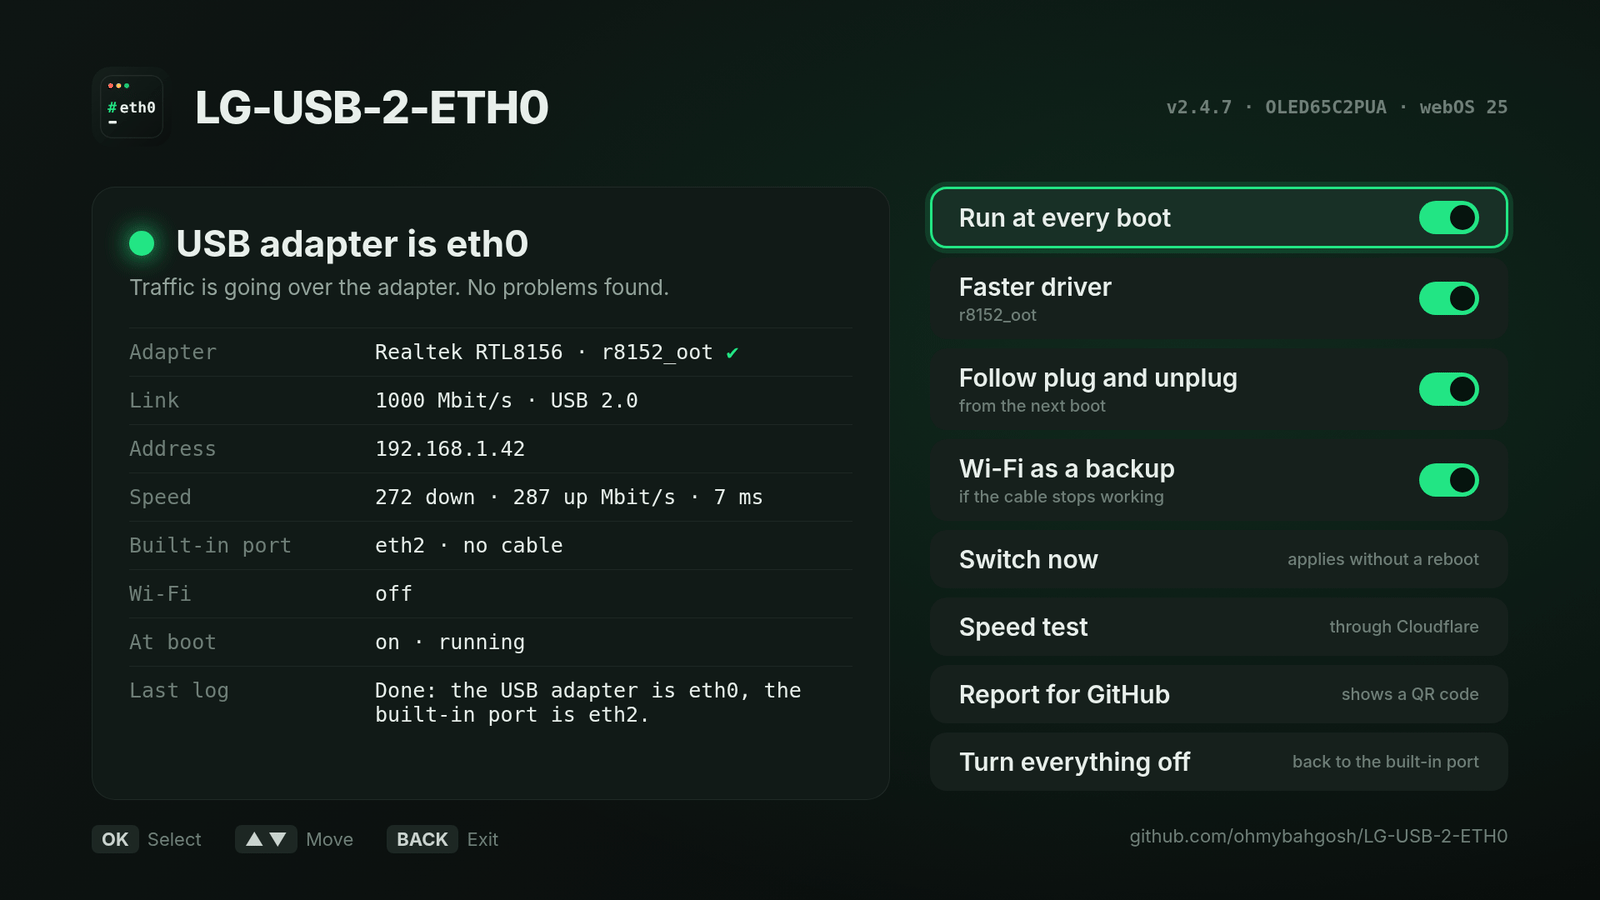
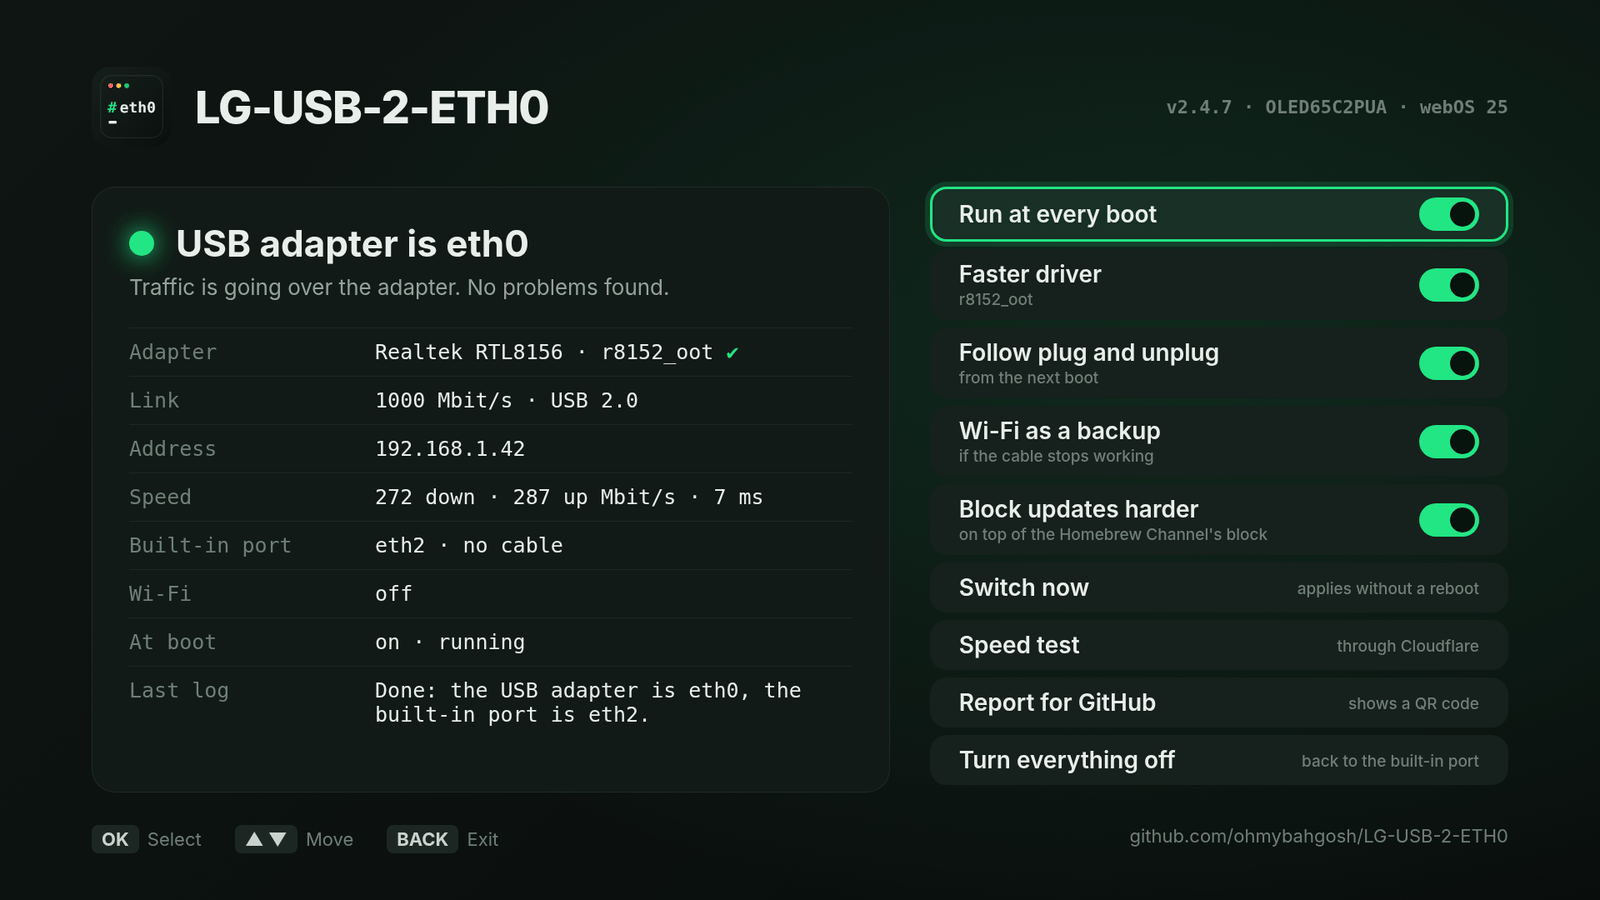
Block updates harder: --block-updates and an app toggle
On top of the Homebrew Channel's Block system updates, never instead of
it: turn off webOS's own update check (support/softwareUpdateEnable,
remembering its old value), add the update servers that block misses
(nsu.lge.com, snu-dev.lge.com, ngfts.lge.com) to /etc/hosts in tagged
lines, drop traffic to 156.147.69.32 with one iptables rule, and delete
cached update details.  At install and at every boot.  Turning it off,
or uninstall, undoes each part and leaves the Homebrew Channel's block
alone.  From the findings in Homebrew Channel issue #96 and PR #264,
and tested on a C2.

status notes when firmware updates aren't blocked at all, and the app
packs ten rows a little tighter.

Changed region(s): [[0.5625, 0.2178, 0.9688, 0.8089], [0.5938, 0.84, 0.75, 0.8711], [0.8125, 0.84, 0.9375, 0.8711]]

diff --git a/webos-app/src/app.js b/webos-app/src/app.js
@@ -224,6 +224,9 @@
         $('tog-boot').className = 'tog' + (bootOn ? ' on' : '');
         $('tog-watch').className = 'tog' + (bootOn && h.watch ? ' on' : '');
         $('tog-wifi').className = 'tog' + (bootOn && h.wifiFallback ? ' on' : '');
+        $('tog-updates').className = 'tog' + (bootOn && h.blockUpdates ? ' on' : '');
+        var u = s.updates || {};
+        $('updates-hint').textContent = u.hbcBlock === false ? 'also turn on Block system updates in the Homebrew Channel' : 'on top of the Homebrew Channel\'s block';
         // The faster-driver row only appears when it fits this TV: a driver is
         // known for this exact kernel and the adapter is one it supports, or a
         // driver is already set up (so it can be turned off again).
@@ -254,7 +257,7 @@
         btn.style.display = show ? '' : 'none';
         // Squeeze the rows a little when there are more of them, so they fit
         var n = buttons().length;
-        $('actions').className = 'actions' + (n >= 9 ? ' tighter' : (n >= 8 ? ' tight' : ''));
+        $('actions').className = 'actions' + (n >= 10 ? ' tightest' : (n >= 9 ? ' tighter' : (n >= 8 ? ' tight' : '')));
         if (!show) { return; }
         $('update-title').textContent = 'Update to v' + upd.latest;
         $('update-hint').textContent = upd.source === 'homebrew' ? 'opens the Homebrew Channel' : 'you have v' + upd.current + ', downloads and installs';
@@ -423,6 +426,20 @@
                     'If eth0 loses its cable link for a minute while Wi-Fi is off, the TV turns Wi-Fi on and joins a network it already knows.  ' +
                     'Once the cable works again, Wi-Fi goes back off, so traffic returns to the adapter.  Starts from the next boot.',
                     function () { act('Wi-Fi backup', installArgs('--wifi-fallback')); });
+            }
+        },
+        updates: function () {
+            if (!state) { return; }
+            if (state.hook.state === 'enabled' && state.hook.blockUpdates) {
+                confirmThen('Stop blocking updates harder?',
+                    'webOS\'s own update check goes back to how it was, and the extra servers and the firewall rule come off.  The Homebrew Channel\'s Block system updates stays as it is.',
+                    function () { act('Update blocking off', installArgs('--no-block-updates')); });
+            } else {
+                confirmThen('Block updates harder?',
+                    'A firmware update can remove root for good, and LG\'s current firmware, webOS 26 included, can\'t be rooted again.  ' +
+                    'This adds to the Homebrew Channel\'s Block system updates: it turns off webOS\'s own update check, blocks the update servers that block misses, and the one the updater reaches by IP.  ' +
+                    'It starts now and at every boot, and turning it off undoes all of it.',
+                    function () { act('Block updates', installArgs('--block-updates')); });
             }
         },
         apply: function () {

diff --git a/webos-app/src/index.html b/webos-app/src/index.html
@@ -28,6 +28,7 @@
       <div class="btn" tabindex="0" data-action="driver"><span>Faster driver<small id="driver-hint"></small></span> <span class="tog" id="tog-driver"></span></div>
       <div class="btn" tabindex="0" data-action="watch"><span>Follow plug and unplug<small>from the next boot</small></span> <span class="tog" id="tog-watch"></span></div>
       <div class="btn" tabindex="0" data-action="wifi"><span>Wi-Fi as a backup<small>if the cable stops working</small></span> <span class="tog" id="tog-wifi"></span></div>
+      <div class="btn" tabindex="0" data-action="updates"><span>Block updates harder<small id="updates-hint">on top of the Homebrew Channel's block</small></span> <span class="tog" id="tog-updates"></span></div>
       <div class="btn" tabindex="0" data-action="apply">Switch now <small>applies without a reboot</small></div>
       <div class="btn" tabindex="0" data-action="speed">Speed test <small>through Cloudflare</small></div>
       <div class="btn" tabindex="0" data-action="report">Report for GitHub <small>shows a QR code</small></div>

diff --git a/scripts/screenshots/demo.js b/scripts/screenshots/demo.js
@@ -13,7 +13,8 @@
   var withSpeed = p.get('speed') !== '0';
   var status = {
     version: ver, model: 'OLED65C2PUA', webos: 'webOS 25', webosRelease: '10.3.1', firmware: '33.30.65', kernel: '5.4.268-329.ptl4tv.5',
-    hook: { state: 'enabled', link: '', wait: '120', mac: '', module: '/home/root/lg-usb-2-eth0/r8152_oot.ko', driver: 'r8152_oot', watch: true, wifiFallback: true, wifiFallbackOn: false, running: true, pid: '1234' },
+    hook: { state: 'enabled', link: '', wait: '120', mac: '', module: '/home/root/lg-usb-2-eth0/r8152_oot.ko', driver: 'r8152_oot', watch: true, wifiFallback: true, wifiFallbackOn: false, blockUpdates: true, running: true, pid: '1234' },
+    updates: { check: 'false', hbcBlock: true, missingHosts: '', firewall: true },
     adapter: { name: 'eth0', driver: 'r8152_oot', mac: '', carrier: true, speed: 1000, duplex: 'full', ip: '192.168.1.42/24', id: '0bda:8156', chip: 'Realtek RTL8156', bus: 'USB 2.0' },
     adapterIsEth0: true,
     builtin: { name: 'eth2', driver: 'lg1k_eth', mac: '', carrier: false, speed: 0, ip: '' },

diff --git a/webos-app/src/style.css b/webos-app/src/style.css
@@ -100,3 +100,5 @@ footer .right { margin: 0 0 0 auto; }
 .actions.tight .btn { padding-top: 14px; padding-bottom: 14px; margin-bottom: 11px; }
 .actions.tighter .btn { padding-top: 10px; padding-bottom: 10px; margin-bottom: 9px; font-size: 28px; }
 .actions.tighter .btn small { font-size: 19px; margin-top: 2px; }
+.actions.tightest .btn { padding-top: 6px; padding-bottom: 6px; margin-bottom: 7px; font-size: 26px; }
+.actions.tightest .btn small { font-size: 17px; margin-top: 0; }

diff --git a/README.md b/README.md
@@ -21,7 +21,7 @@ This script renames the adapter to `eth0` and parks the built-in port under anot
 
 > [!TIP]
 > **Is it safe, and how do I undo it?**
-> It adds one boot hook, a link at `/var/lib/webosbrew/init.d/S01fix-eth`, keeps its settings in `/var/lib/webosbrew/lg-usb-2-eth0.conf`, and only renames network interfaces.  No system files are touched, and network settings only if you turn on the Wi-Fi backup, so a reboot without the hook always starts clean.  With no adapter plugged in, the hook changes nothing.
+> It adds one boot hook, a link at `/var/lib/webosbrew/init.d/S01fix-eth`, keeps its settings in `/var/lib/webosbrew/lg-usb-2-eth0.conf`, and only renames network interfaces.  No system files are touched, and network settings only if you turn on the Wi-Fi backup or Block updates harder, so a reboot without the hook always starts clean.  With no adapter plugged in, the hook changes nothing.
 > Undo everything with **Turn everything off** in the TV app, or `sh LG-USB-2-ETH0.sh uninstall --now`.
 
 > [!WARNING]
@@ -29,6 +29,7 @@ This script renames the adapter to `eth0` and parks the built-in port under anot
 >
 > - Turn off **Automatic software updates** in the TV's settings (on recent models it's under Support, Software Update).
 > - In the Homebrew Channel, open Settings and turn on **Block system updates**.
+> - For more, turn on **Block updates harder** in the LG-USB-2-ETH0 app (or install with `--block-updates`).  It adds to the Homebrew Channel's block without touching it: see [Blocking updates](#blocking-updates).
 > - Some TVs still show the update prompt anyway.  Blocking LG's update servers on your router or Pi-hole stops it: see the list in [Homebrew Channel issue #96](https://github.com/webosbrew/webos-homebrew-channel/issues/96#issuecomment-2119483327).
 > - Not sure about your firmware?  Check it at [CanI.RootMy.TV](https://cani.rootmy.tv/).
 >
@@ -56,6 +57,7 @@ This script renames the adapter to `eth0` and parks the built-in port under anot
 - [A faster driver](#a-faster-driver)
 - [webOS compatibility](#webos-compatibility)
 - [Real speeds](#real-speeds)
+- [Blocking updates](#blocking-updates)
 - [Troubleshooting](#troubleshooting)
 - [FAQ](#faq)
 - [Upgrading from v1](#upgrading-from-v1)
@@ -93,7 +95,7 @@ The easiest way in.  It runs the same script underneath, as root through the Hom
 <sub>The recording above is from a real LG C2.  The screenshots use made-up data from <a href="scripts/screenshots/">scripts/screenshots</a>, matching a C2 with an RTL8156 adapter.</sub>
 
 - **Status at a glance:** whether the adapter is `eth0`, its driver, link speed, USB bus, address, Wi-Fi, and any problems found, like a cable that only connects at 100 Mbit/s.
-- **Run at every boot**, **Follow plug and unplug**, **Wi-Fi as a backup** and **Switch now**, as on/off switches.
+- **Run at every boot**, **Follow plug and unplug**, **Wi-Fi as a backup**, **Block updates harder** and **Switch now**, as on/off switches.
 - **Faster driver:** only shows up when a driver is known for your TV's exact kernel and an adapter it supports is plugged in.  It downloads, checks and sets up the driver in one go.
 - **Speed test:** download, upload and latency through the TV's current connection, against Cloudflare's nearest server.
 - **Report for GitHub:** a QR code that opens a compatibility report on your phone with your TV, adapter, speed and the full report already filled in (MAC addresses hidden).
@@ -220,7 +222,8 @@ This sample comes from the test suite, with example TV details filled in.  Your 
 | `--module /path/driver.ko` | Load this driver module at boot.  An adapter with no driver gets it right away, and one the kernel gave to a generic driver (`cdc_ncm` or `cdc_ether`) is moved over to it.  Refuses a module built for another kernel.  See [A faster driver](#a-faster-driver). |
 | `--driver NAME` | The driver name the module registers, if it can't be read from the file.  Rarely needed. |
 | `--wifi-fallback` | Wi-Fi as a backup.  If `eth0` loses its cable link for a minute while Wi-Fi is off, turn Wi-Fi on, so the TV joins a network it already knows.  Once the cable works again for 30 seconds, turn Wi-Fi back off, so traffic returns to the adapter.  It only turns Wi-Fi off if it turned it on.  Starts from the next boot. |
-| `--no-watch`, `--no-module`, `--no-mac`, `--no-wifi-fallback` | Turn that setting off again. |
+| `--block-updates` | Block firmware updates more thoroughly, on top of the Homebrew Channel's own block.  See [Blocking updates](#blocking-updates).  Starts right away, and again at every boot. |
+| `--no-watch`, `--no-module`, `--no-mac`, `--no-wifi-fallback`, `--no-block-updates` | Turn that setting off again. |
 | `--json` | With `status`, `speedtest` or `update --check`: machine-readable output.  The TV app uses it. |
 
 The options you install with are saved in `/var/lib/webosbrew/lg-usb-2-eth0.conf`.  Run `install` again to change any of them; the ones you don't give are kept.
@@ -361,6 +364,19 @@ Don't expect gigabit.  The TV's USB port is the limit.  On a C2 at full speed, t
 
 That's still two to three times the built-in port, which is plenty for 4K remuxes.
 
+## Blocking updates
+
+A firmware update can remove root, and current firmware can't be rooted again (see the warning at the top).  The Homebrew Channel's **Block system updates** is the first line: it points four of LG's update servers at nothing in `/etc/hosts`.  People in [Homebrew Channel issue #96](https://github.com/webosbrew/webos-homebrew-channel/issues/96) found what it misses, and **Block updates harder** (`--block-updates`) adds that on top:
+
+- **webOS's own update check, turned off.**  A hidden webOS setting (`softwareUpdateEnable` in the `support` category) stops the updater's check, including the one it makes early in boot, before the Homebrew Channel's block is in place.  It's the same switch [Homebrew Channel PR #264](https://github.com/webosbrew/webos-homebrew-channel/pull/264) turns off.
+- **The update servers the block misses**, added to `/etc/hosts`: `nsu.lge.com` (LG's current update server, which a TV still reached with the block on), `snu-dev.lge.com` and `ngfts.lge.com`.  It only adds the ones that aren't there yet, in lines marked as its own, and never changes the Homebrew Channel's.
+- **The server the updater reaches by IP** (`156.147.69.32`), which no hosts file can block, with one firewall rule.
+- **Update details already found or downloaded** (in `/mnt/lg/cmn_data/swupdate`), deleted, so a waiting prompt goes away.
+
+It does this right away and again at every boot, and turning it off undoes all of it: the update check goes back to how it was, and its hosts lines and firewall rule come off.  The Homebrew Channel's own setting stays as you left it either way, so keep that on too.  Tested on a C2 with webOS 25.
+
+It doesn't touch webOS's update service itself.  Overriding that, as some people in the issue have, goes deeper into the system than this script should.  If you can, also block the servers above on your router or Pi-hole: that covers the TV before it has even started.
+
 ## Troubleshooting
 
 **Lost SSH while switching?**  The switch still finishes on the TV.  Reconnect over Wi-Fi.  The adapter has its own MAC address, so your router may give the TV a new IP.  A DHCP reservation for the adapter's MAC keeps it steady.
@@ -389,7 +405,7 @@ That's still two to three times the built-in port, which is plenty for 4K remuxe
 
 **Does it survive a firmware update?**  The hook lives in the Homebrew Channel's folder, so it stays as long as root does.  If an update removes root, the hook stops running and the TV just goes back to using the built-in port.  Current firmware, webOS 26 included, can't be rooted again, so keep updates off: see the warning at the top.
 
-**Does it change my network settings?**  No.  webOS still sets up the wired connection itself.  The script only changes which device is called `eth0`.  The one exception is `--wifi-fallback`, if you turn it on: it flips the Wi-Fi switch on when the cable stops working, and back off when it works again.
+**Does it change my network settings?**  No.  webOS still sets up the wired connection itself.  The script only changes which device is called `eth0`.  The one exception is `--wifi-fallback`, if you turn it on: it flips the Wi-Fi switch on when the cable stops working, and back off when it works again.  `--block-updates` doesn't change your network either, but it does add LG's update servers to `/etc/hosts` and one firewall rule, so firmware updates can't get through.
 
 **Does it affect Wi-Fi?**  No, unless you turn on `--wifi-fallback`.  Wi-Fi modules are never renamed or moved, even the ones that sit on USB.
 

diff --git a/SECURITY.md b/SECURITY.md
@@ -24,8 +24,9 @@ So you can judge it yourself:
 - `update` downloads the newest release from GitHub, and installs it only if its SHA-256 matches (and its size, for the app).
 - `speedtest` talks to Cloudflare's public speed test, only when you run it.
 - With `--wifi-fallback`, it turns Wi-Fi on through webOS's connection manager when the cable has had no link for a minute, and off again when it works, remembering that in `/var/lib/webosbrew/lg-usb-2-eth0.wifi`.
+- With `--block-updates`, at install and at every boot, it turns off webOS's update check (`softwareUpdateEnable`, remembering its old value in `/var/lib/webosbrew/lg-usb-2-eth0.updates`), adds LG's update servers that are missing to `/etc/hosts` in lines marked as its own, adds one `iptables` rule dropping traffic to `156.147.69.32`, and deletes cached update details in `/mnt/lg/cmn_data/swupdate`.  Turning it off undoes each of these.  It never changes the Homebrew Channel's own update block.
 
-Apart from `get-driver` and `update`, it doesn't download anything.  It never changes system files or opens any ports, and it changes network settings only if you turn on `--wifi-fallback`, which flips the Wi-Fi switch when the cable stops working and back when it works.
+Apart from `get-driver` and `update`, it doesn't download anything.  It never changes system files or opens any ports, and it changes network settings only if you turn on `--wifi-fallback`, which flips the Wi-Fi switch when the cable stops working and back when it works, or `--block-updates`, which blocks LG's update servers as above.
 
 ## Verifying a download
 

diff --git a/CHANGELOG.md b/CHANGELOG.md
@@ -7,6 +7,7 @@ All notable changes to LG-USB-2-ETH0.  Versions follow [semantic versioning](htt
 ### Added
 
 - **A firmware audit.**  `scripts/firmware-audit/audit.sh` unpacks an LG firmware file and lists the USB network drivers its kernel has.  [docs/firmware-audit.md](docs/firmware-audit.md) has the results for 13 models from 2019 to 2025, webOS 26 included.  Among other things, it shows the C2, C3, C4 and UR9000 share one kernel, and that the 2024 B4 and QNED85 share the 2025 B5's, so dd3git's ASIX driver fits them too.
+- **Block updates harder (`--block-updates`), in the app and the script.**  On top of the Homebrew Channel's Block system updates, never instead of it: it turns off webOS's own update check (`softwareUpdateEnable`), adds the update servers that block misses (`nsu.lge.com`, `snu-dev.lge.com`, `ngfts.lge.com`) to `/etc/hosts`, drops traffic to `156.147.69.32` with one firewall rule, and deletes cached update details.  Right away and at every boot.  Turning it off undoes all of it.  From the findings in Homebrew Channel issue #96 and PR #264.  `status` notes when firmware updates aren't blocked at all.
 - **`report` names the chip and the built-in USB network drivers**, from `/lib/modules/<kernel>/modules.builtin`.  Compatibility reports now show which drivers a TV has without anyone needing to look.
 
 ### Changed
